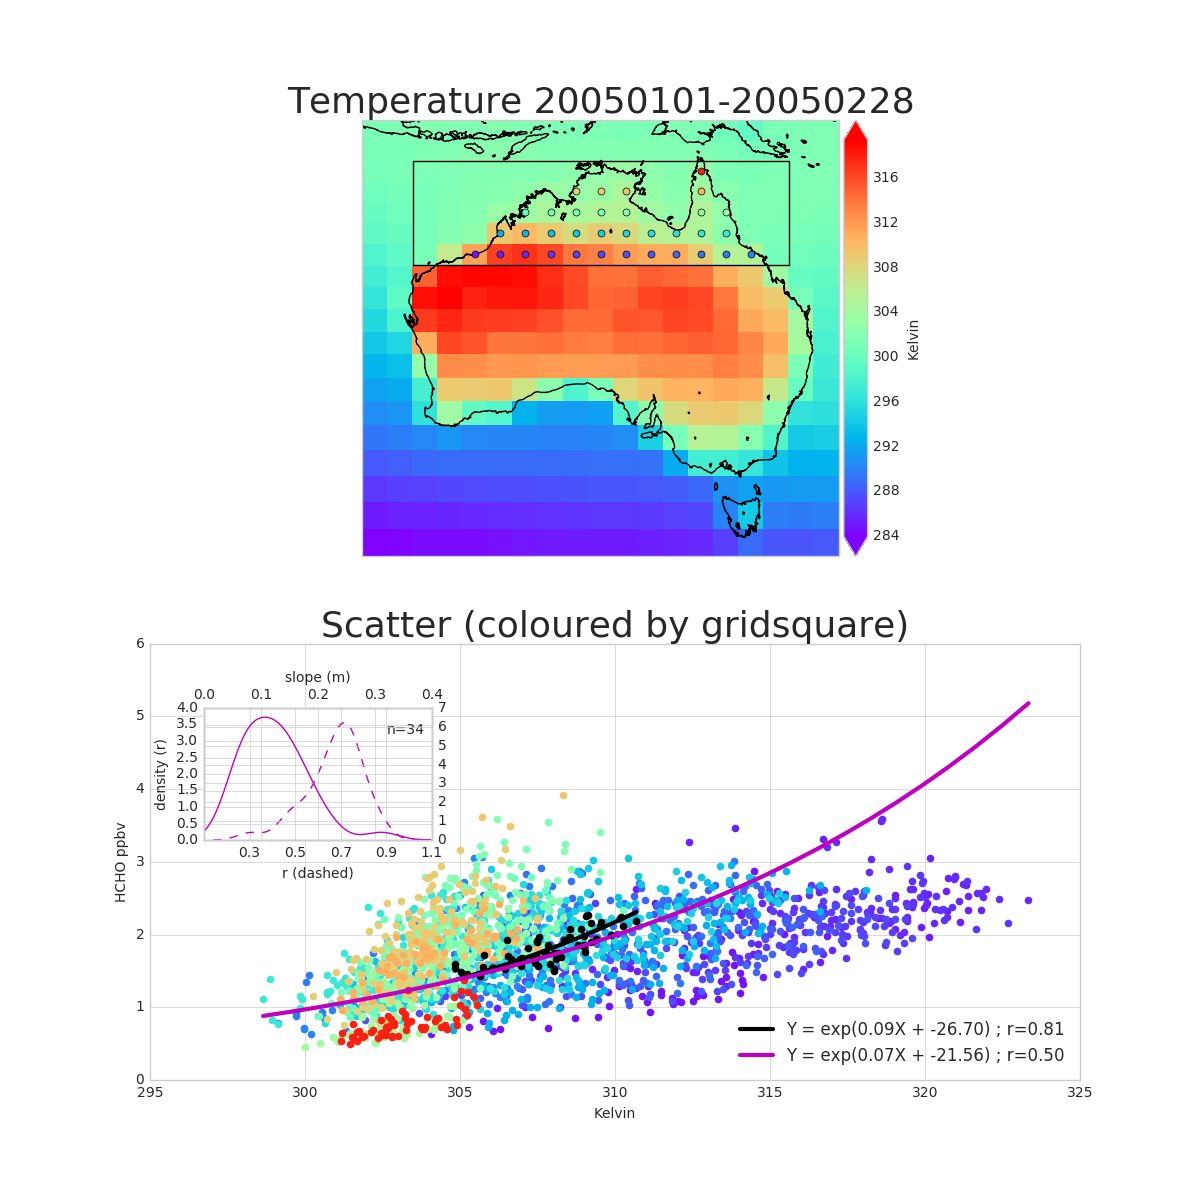
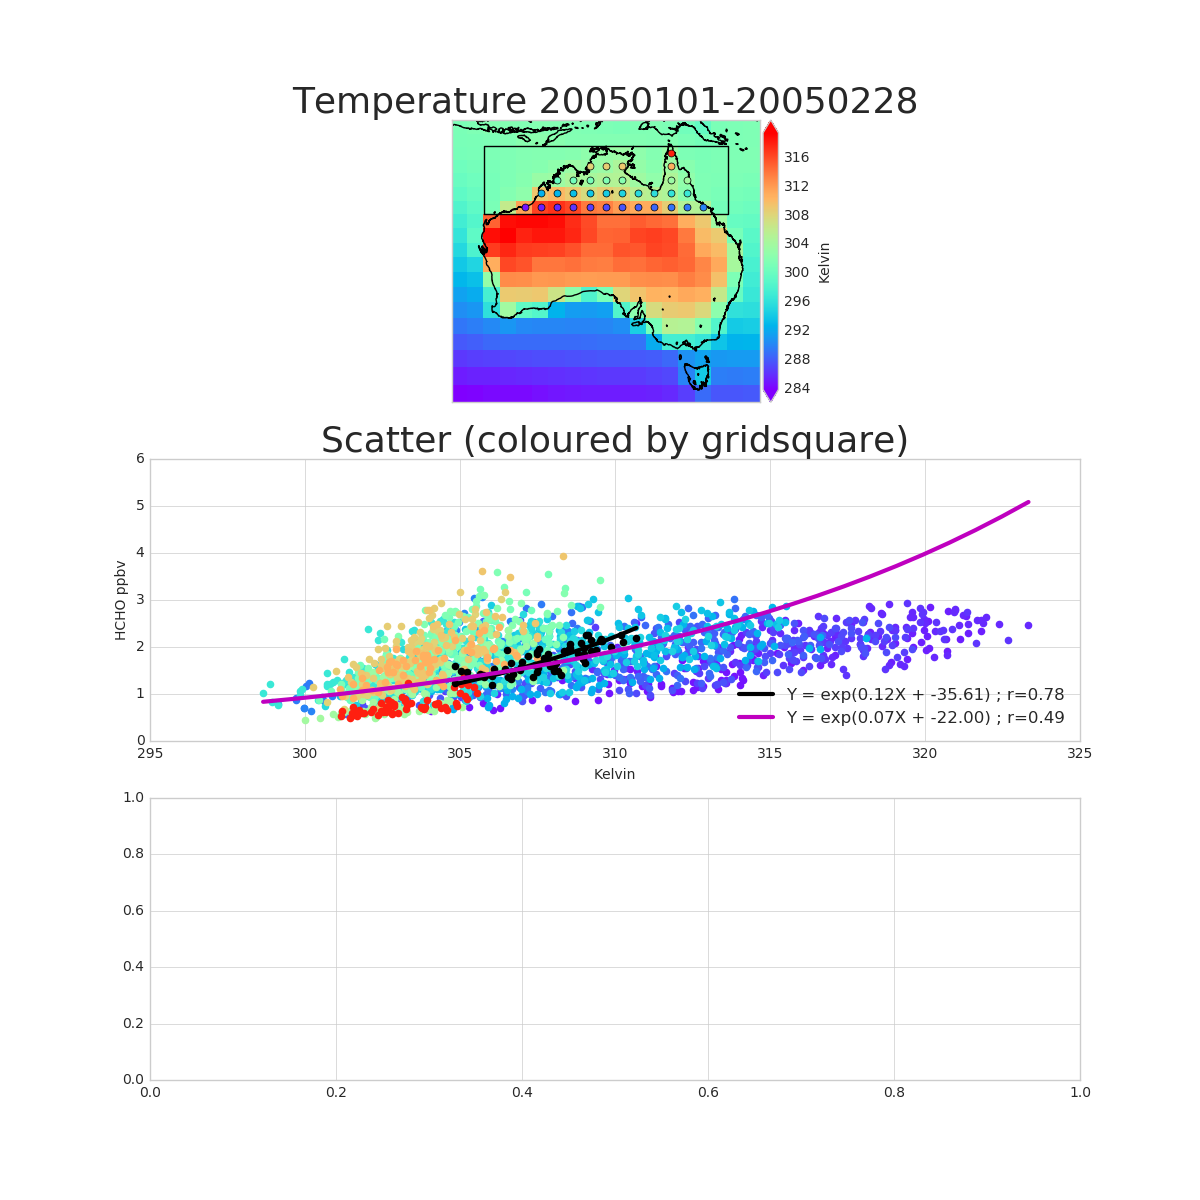
Ran no2 plots for winter

diff --git a/GC_tests.py b/GC_tests.py
@@ -898,16 +898,17 @@ if __name__=='__main__':
     d1=datetime(2005,1,5)
     region=pp.__AUSREGION__
     label='AUS'
-    GC_vs_OMNO2d(d0=summer05[0], d1=summer05[1],
-                 region=region, regionlabel=label,
-                 drop_low_anthro=True)
+    
     for dates in [summer05,winter05]:
-        for region, label in zip(subs,labels):
-            HCHO_vs_temp(d0=dates[0],d1=dates[1],
-                         region=region,regionlabel=label)
-            GC_vs_OMNO2d(d0=dates[0], d1=dates[1],
-                         region=region, regionlabel=label,
-                         drop_low_anthro=True)
+        GC_vs_OMNO2d(d0=dates[0], d1=dates[1],
+                     region=region, regionlabel=label,
+                     drop_low_anthro=True)    
+    #    for region, label in zip(subs,labels):
+    #        HCHO_vs_temp(d0=dates[0],d1=dates[1],
+    #                     region=region,regionlabel=label)
+    #        GC_vs_OMNO2d(d0=dates[0], d1=dates[1],
+    #                     region=region, regionlabel=label,
+    #                     drop_low_anthro=True)
 
 
 
